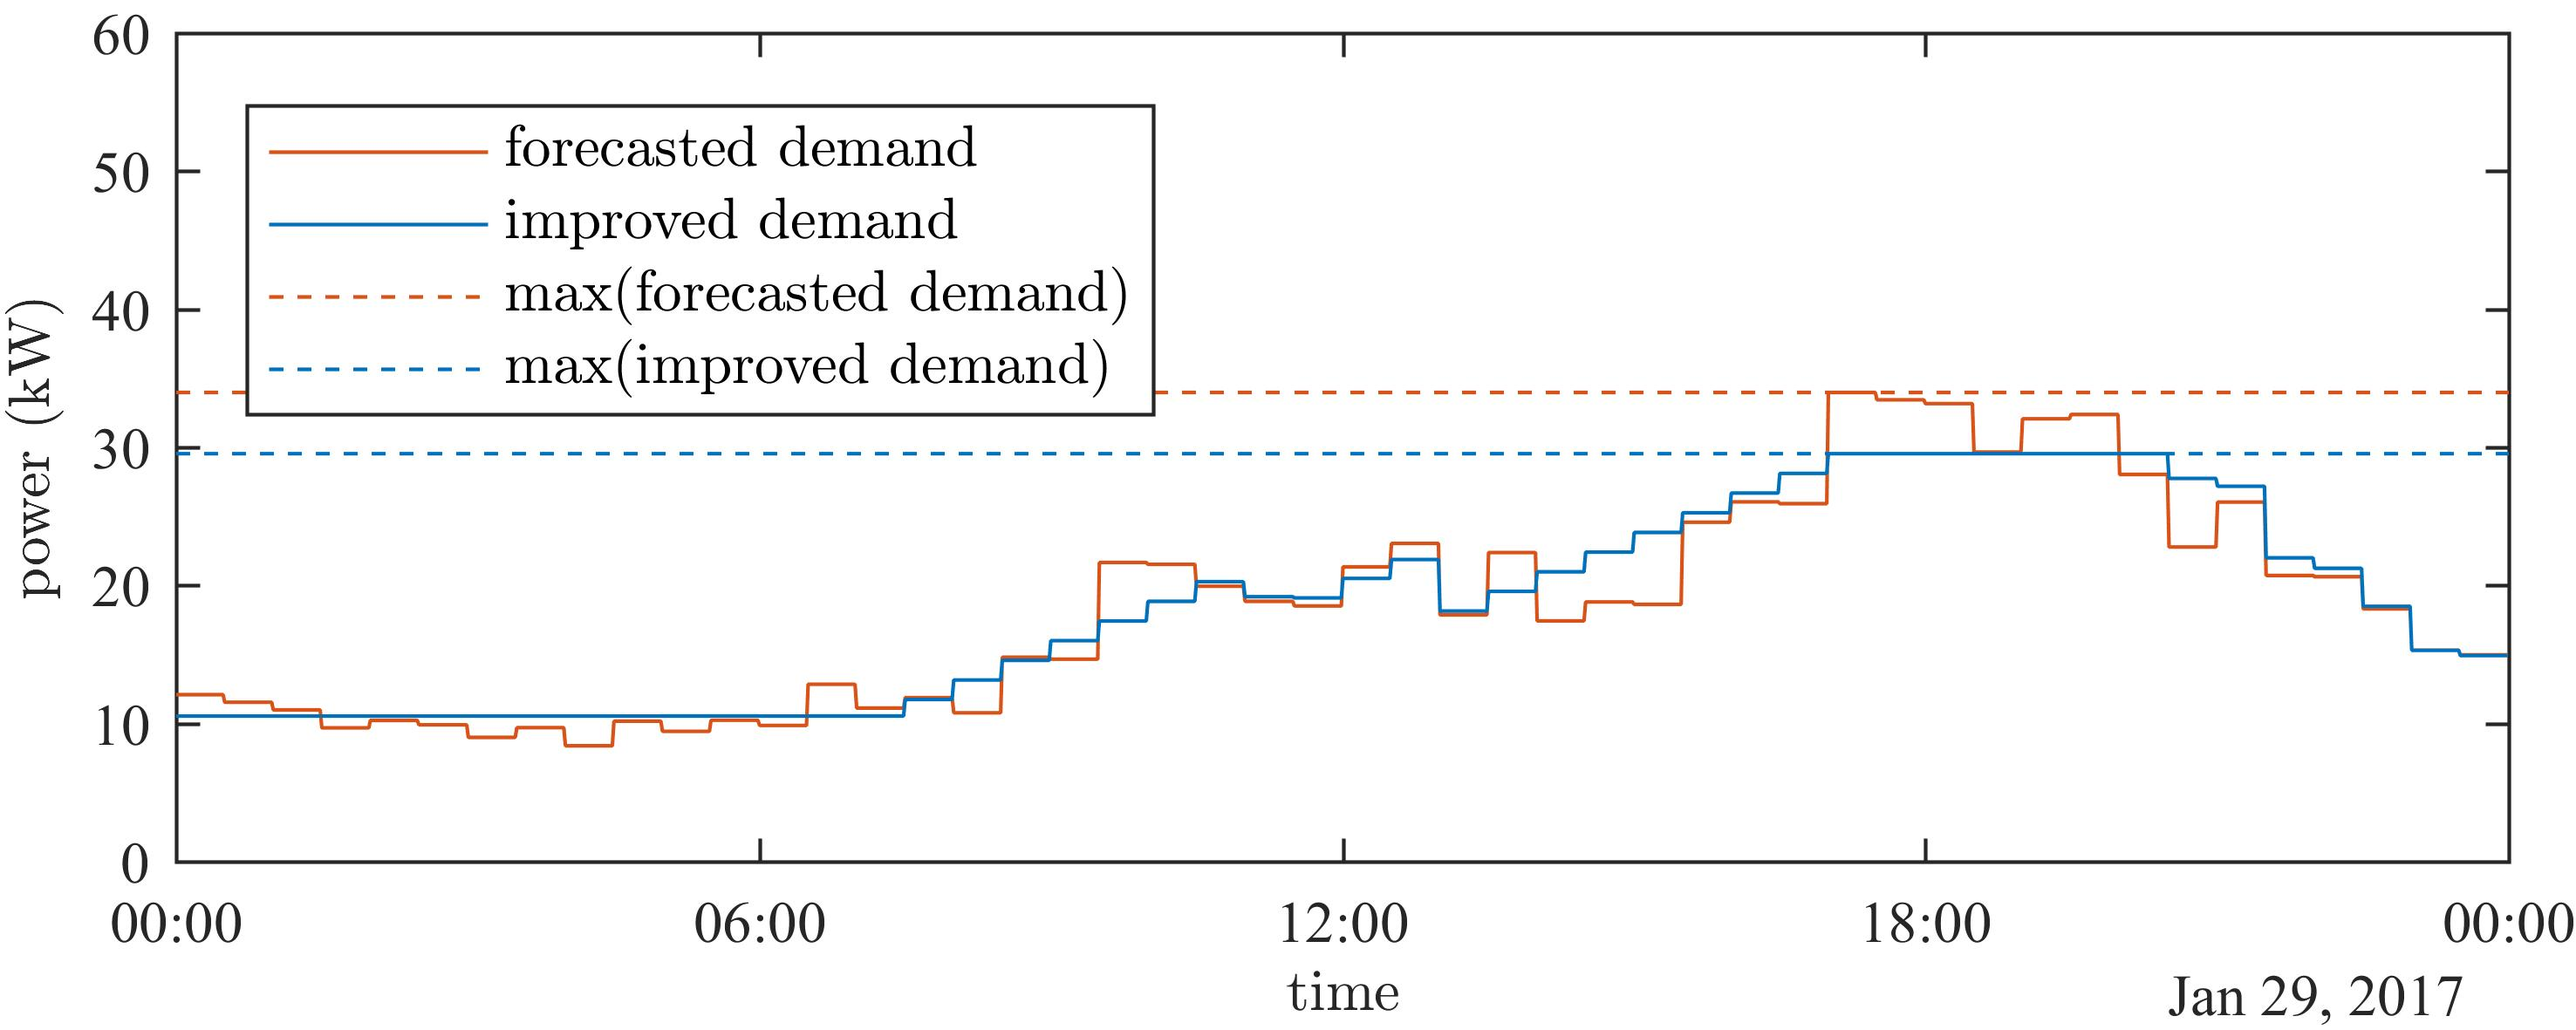
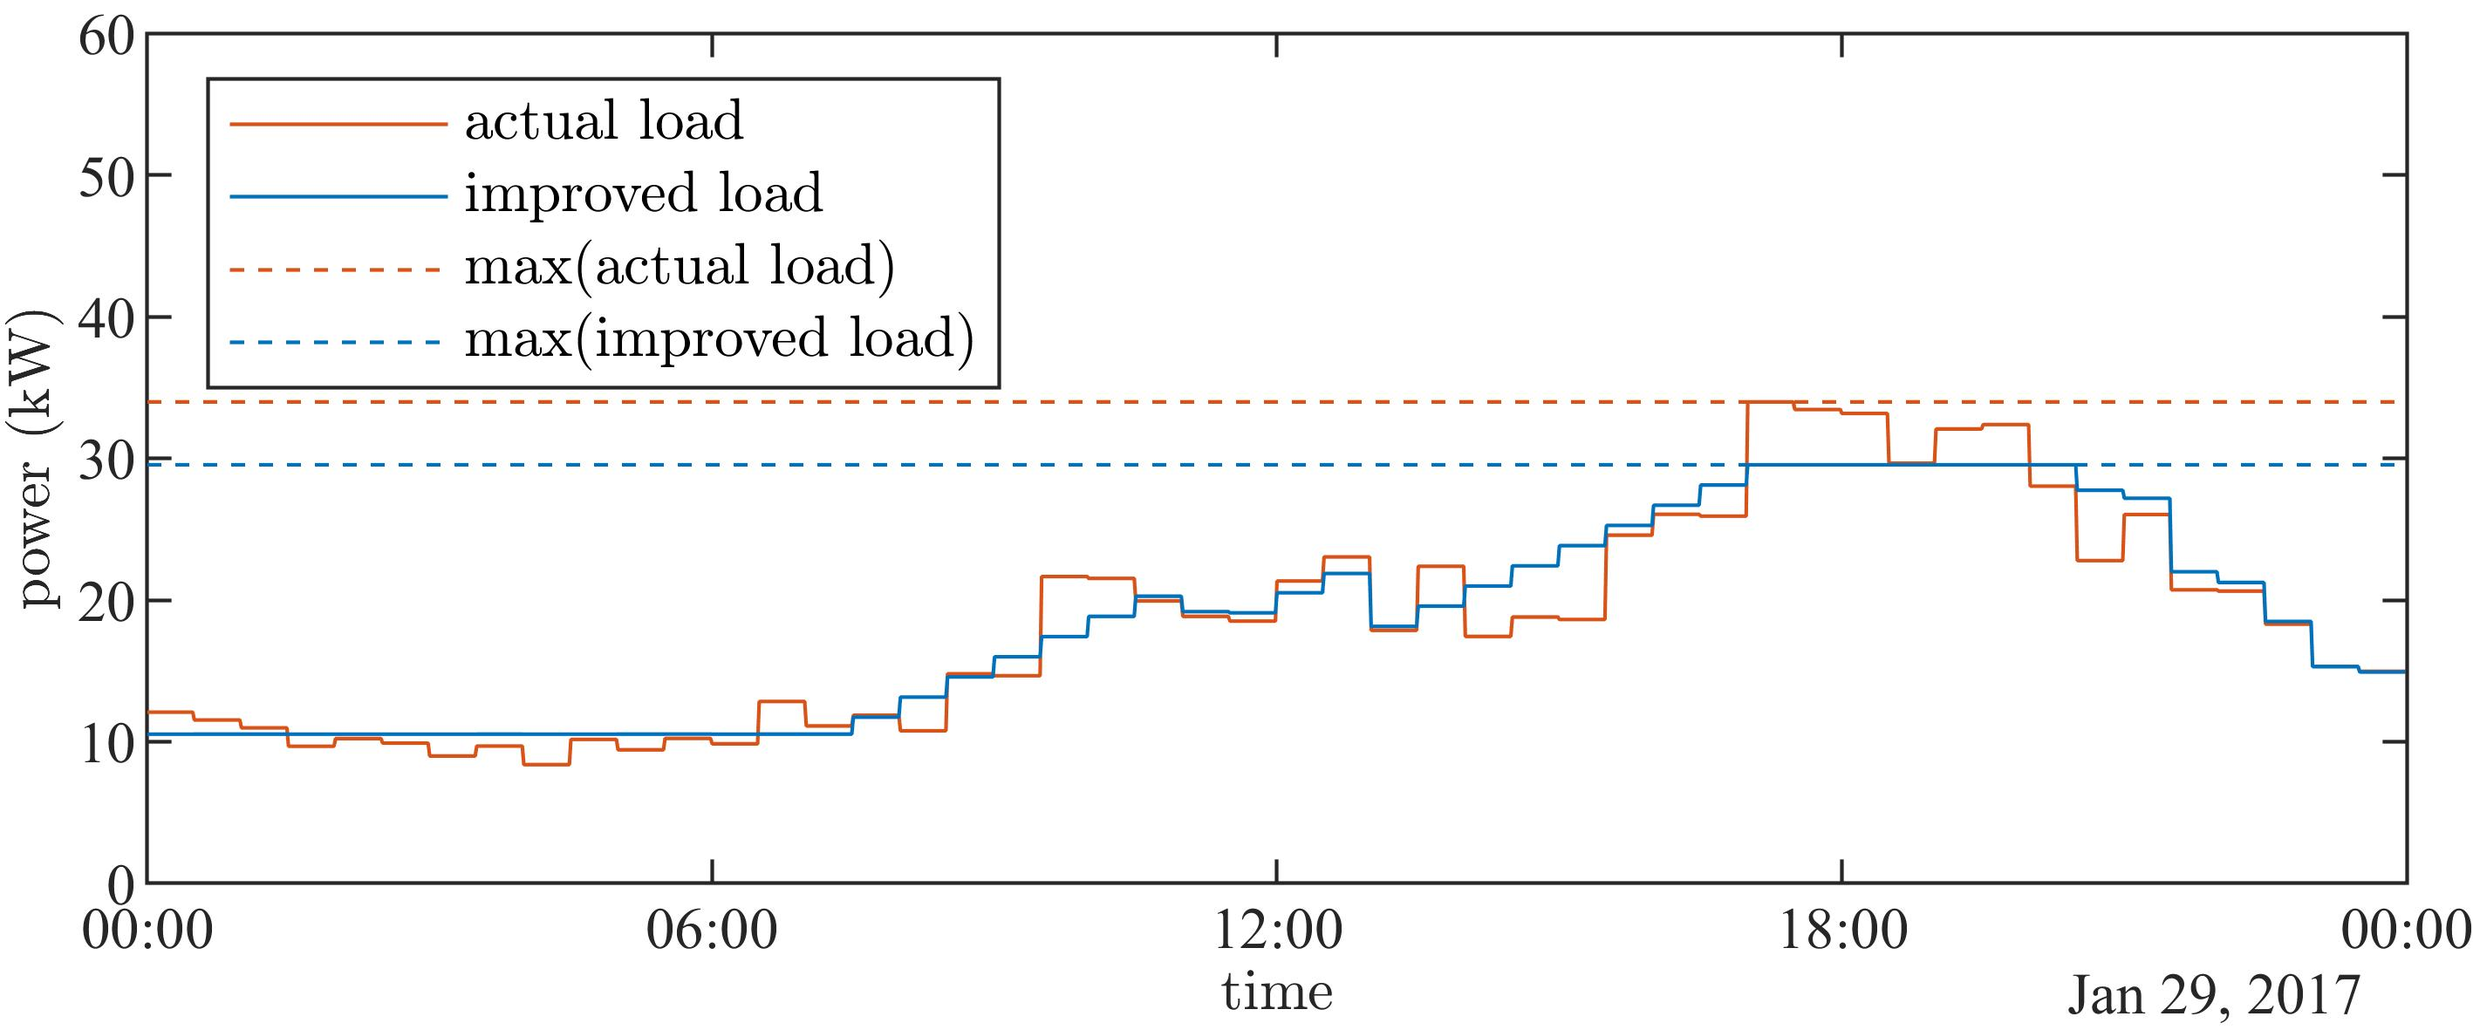
Finished Chapter 4
Loads of things were corrected! Including some re-plotting of figures (to change the legend)

diff --git a/_chapter2/sec/results.tex b/_chapter2/sec/results.tex
@@ -3,6 +3,7 @@
 
 All proposed cases are used to control power flow of the ESMU using 27 days of uninterrupted sub-half-hourly load records.
 In this section the time-series improvements are presented at first where a day's peak reduction due to the sub-half-hourly schedule adjustment are highlighted.
+\hladd{After all, reducing peaks both frees additional resources for future load and reduces ohmic losses in the cables.}
 Then the daily peak reduction across the entire dataset is presented and followed by a probability density plot to better compare these findings.
 In the end the model's impact on the peak reduction performance is assessed.
 
@@ -37,11 +38,11 @@ Hence, the next section compares the daily peak load reduction from the applicat
 
 In Figure~\ref{ch2:fig:daily-peaks}, every day's power peak was extracted in a similar way to the procedure that was used for Figure~\ref{ch2:fig:day-peak}.
 Here the actual power peaks were plotted in Figure~\ref{ch2:subfig:daily-peaks}, and the relative power improvements (i.e. ratio to the baseline power peaks from case \textbf{B}) were plotted in Figure~\ref{ch2:subfig:daily-peaks-percentage}.
-From both plots it can be seen that controlling ESMU using the proposed dynamic control lowers peak load.
-This is true even when the underlying ESMU schedule originally worsened and increased peak load.
-Such a behaviour can be observed clearly during \hlrem{e.g.}\hladd{for example} days 6 and 25, where the half-hourly ESMU schedule increased the actual load peak by 2.8kW and 2.5kW, respectively.
-The ESMU schedule adjustment mechanisms however compensated for this error, but in those two cases the compensation was not enough to reduce peak power below the original value.
-Day 26 on the other hand experienced a similar increase in peak power during the baseline case (i.e. case \textbf{B}) by 1.2kW, but the power adjustment mechanism corrected this forecast error and reduced the final peak power below the original value.
+From both plots it can be seen that controlling ESMU using the proposed dynamic control \hladd{(\textbf{I}, \textbf{II}, \textbf{III}) }lowers peak load.
+This is true even when the underlying ESMU schedule originally worsened and increased peak load\hladd{ (see \textbf{B} vs \textbf{O})}.
+Such a behaviour can be observed clearly during \hlrem{e.g.} days 6 and 25, where the half-hourly ESMU schedule\hladd{ based on \textbf{B}} increased the actual load peak\hladd{ from case \textbf{O}} by 2.8kW and 2.5kW, respectively.
+The ESMU schedule adjustment mechanisms \hladd{(\textbf{I}, \textbf{II}, \textbf{III}) }however compensated for this error, but in those two cases the compensation was not enough to reduce peak power below the original value.
+Day 26 on the other hand experienced a similar increase in peak power during the baseline case \hlrem{(i.e. case }\textbf{B}\hlrem{)} by 1.2kW, but the \hladd{proposed }power adjustment mechanism \hladd{according to \textbf{II}}corrected this forecast error and reduced the final peak power below the original value.
 
 Nonetheless, the sensitivity to the underlying power prediction approaches becomes apparent when having this larger set of peak reduction results to compare the dynamic control's performance against its baseline cases.
 As seen in Figure~\ref{ch2:subfig:daily-peaks-percentage} the scenario with perfect foresight (i.e. case \textbf{I}) frequently outperformed all other cases since it appears to achieve largest peak power reduction from the baseline case.
@@ -74,12 +75,17 @@ Figure~\ref{ch2:fig:peak-diff-pdf} takes this analysis even further where only t
 Now the ESMU impact can easily be seen since a high probability of positive peak load reduction indicates a beneficial impact of the ESMU operation.
 A negative peak load reduction (i.e. increased peak load) would therefore indicate a worse performance.
 As expected, case \textbf{B} has a slight positive impact on the system whilst a cumulative probability of more than 25\% (i.e. area under curve of case \textbf{O}) to the left of 0kW suggests that the peak might be worsened one in four times.
-The dynamic control with its simplest prediction method however (i.e. case \textbf{III}) lowered this probability to already 11.8\%.
-The perfect foresight model (i.e. case \textbf{I}) performed best at only 7.4\% and the MPC based cases (i.e. case \textbf{II}) achieved an average of 8.0\% probability of worsening the peak power.
+The dynamic control with its simplest prediction method however (i.e. case \textbf{III}) lowered this probability to already \hlrem{11.8\%}\hladd{7.4\%}.
+The perfect foresight model (i.e. case \textbf{I}) performed \hlrem{best at} only \hlrem{7.4\%}\hladd{at 11.8\%} and the MPC based cases (i.e. case \textbf{II}) achieved an average of 8.0\% probability of worsening the peak power.
+\hladd{The fact, that the perfect foresight model \textbf{III} could not reduce the probability of peaks as well as the simple model \textbf{I} is likely due to the used power profiles and forecast errors.
+However, the mean probabilities (that are discussed below) differ as expected.}
 
+\hladd{In the following, the mean peak reduction of the base case \textbf{B} (i.e. where the cumulative probability reaches 50\%) is treated as the benchmark for peak reduction.
+This probability is reached at 1.7kW or in other words:}\hlrem{
 Beside the reduced probability of missing or worsening peak load, the probability of having a larger positive impact is also increased when using the dynamic control.
-Whilst the probability of reducing load peaks by 1.7kW or more was at 50\% for case \textbf{B}, case \textbf{III} increased this probability to 77.7\%, case \textbf{II} to 84.5 5\% (AR) / 83.1\% (ARX), and case \textbf{I} to 79.8\%.
-The reason why this perfect foresight case achieved a slightly lower value than the AR/ARX cases was due to aforementioned discrepancy between actual and forecasted load profiles.
+Whilst} the probability of reducing load peaks by 1.7kW or more was at 50\% for case \textbf{B}\hladd{.
+The}\hlrem{,} \hladd{simplest }case \textbf{III} \hladd{however }increased this probability to 77.7\%, case \textbf{II} to 84.5 5\% (AR) / 83.1\% (ARX), and the \hladd{perfect foresight }case \textbf{I} to 79.8\%.
+The reason why this simplest case achieved a slightly lower value than the AR/ARX cases was due to aforementioned discrepancy between actual and forecasted load profiles.
 Due to the discrepancy in erroneousness the chosen SOC tolerance was exhausted and lead to some worsening cases that negatively skewed results of the perfect foresight case (i.e. case \textbf{I}).
 Nonetheless, when comparing the three dynamic control cases with each other as done in Figure~\ref{ch2:fig:peak-diff-pdf}, then it can be seen that case \textbf{II} using an AR model for MPC performed best at reducing peak loads for the used dataset.
 

diff --git a/_chapter2/sec/control.tex b/_chapter2/sec/control.tex
@@ -3,8 +3,8 @@
 
 \input{_chapter2/fig/system-controller}
 
-This section explains the dynamic control (i.e. the controller block as shown in Figure~\ref{ch2:subfig:proposed-dynamic-control-system}) which contains the two PID compensators to adjust operation around the predetermined ESMU schedule.
-The first PID compensator is fed by the ESMU schedule and the other is fed by the MPC load estimations.
+This section explains the dynamic control (i.e. the controller block as shown in Figure~\ref{ch2:subfig:proposed-dynamic-control-system}) \hladd{in the shape of an MPC, }\hlrem{which contains}\hladd{containing} the two PID compensators to adjust operation around the predetermined ESMU schedule.
+The first PID compensator is fed by the ESMU schedule and the other is fed by the \hlrem{MPC}\hladd{predictor} load estimations.
 After the control system is detailed in this section the auto-regressive models which were used during the course of this research are also explained.
 
 \subsection{Dynamic control}
@@ -23,7 +23,7 @@ More specifically, PID$_1$ receives the most recent SOC value that is obtained f
 \nomenclature[J]{$E_{p}(t)$}{Difference between current and predicting network power at sample $t$, where $E_{p}(t) \in \mathbb{R}$}
 \nomenclature[J]{$\hat{p}_\text{net}(t+\Delta t)$}{Predicted next network power at sample $t$}
 \nomenclature[J]{$\boldsymbol{\alpha}$}{PID weight vector for SOC compensator PID$_1$, where $\boldsymbol{\alpha} = \{\alpha_P, \alpha_I, \alpha_D\}$ and $\boldsymbol{\alpha} \in \mathbb{R}^3$}
-\nomenclature[J]{$\boldsymbol{\beta}$}{PID weight vector for MPC compensator PID$_2$, where $\boldsymbol{\beta} = \{\beta_P, \beta_I, \beta_D\}$ and $\boldsymbol{\beta} \in \mathbb{R}^3$}
+\nomenclature[J]{$\boldsymbol{\beta}$}{PID weight vector for \hlrem{MPC}\hladd{predictor} compensator PID$_2$, where $\boldsymbol{\beta} = \{\beta_P, \beta_I, \beta_D\}$ and $\boldsymbol{\beta} \in \mathbb{R}^3$}
 \nomenclature[J]{$\textbf{a}$}{Weight vector for compensator input regression of the AR model, where $\textbf{a} = \mathbb{R}^{N}$}
 \nomenclature[J]{$\textbf{b}$}{Weight vector for compensator output regression of the AR model, where $\textbf{b} = \mathbb{R}^{N}$}
 \nomenclature[J]{$N$}{Number of regressors of the AR model, where $N \in \mathbb{Z}_{>0}$}
@@ -57,7 +57,7 @@ This error signal is defined as:
 \input{_chapter2/equ/power-error-signal}
 
 However, since the future network power is unknown an ``estimated next power'', $\hat{p}_\text{net}(t+\Delta t)$, is used instead.
-This value is the PID$_2$'s input from the MPC and results in an ``estimated power error signal'':
+This value is the PID$_2$'s input from the \hlrem{MPC}\hladd{predictor} and results in an ``estimated power error signal'':
 
 \input{_chapter2/equ/power-error-estimate}
 
@@ -84,7 +84,10 @@ Here, $\zeta^*(\boldsymbol{\alpha}, \boldsymbol{\beta})$ is defined as:
 In Equation~\ref{ch2:equ:cost-weights} and Equation~\ref{ch2:equ:dynamic-cost}, $\zeta^*(\boldsymbol{\alpha}, \boldsymbol{\beta})$ represents the sub-half-hourly peak load during a day when ESMU schedules are adjusted with the corresponding $\boldsymbol{\alpha}$ and $\boldsymbol{\beta}$ weights.
 Also, the same SOC tolerance that was used to generate the SOC schedule (i.e. $SOC_{tol}$) is included to prevent the solution from deviating off the prescheduled SOC profile.
 To generalise this solution for all load cases this minimisation problem was formulated to solve multiple daily load profiles in order to find ideal values for $\boldsymbol{\alpha}$ and $\boldsymbol{\beta}$.
-This resulting set of $\boldsymbol{\alpha}$ and $\boldsymbol{\beta}$ weights therefore guaranteed a convergent and stable solutions for the provided data.
+\hladd{The system of two PID compensators for discrete time is unconventional and it may be worth considering different types of control or compensator.
+However, with the above-explained approach and for the data used as part of this research, the computed}\hlrem{
+This resulting} set of $\boldsymbol{\alpha}$ and $\boldsymbol{\beta}$ weights \hlrem{therefore guaranteed}\hladd{resulted} a convergent and stable solutions\hlrem{ for the provided data}.
+\hladd{In this context, convergent means that the $SOC^*(t)$ values tend towards the $SOC(t)$ values, and stable means that the $SOC^*(t)$ values never clipped at zero or one.}
 The details concerning these case studies themselves are however outlined in Section~\ref{ch2:sec:case-studies}.
 
 \subsection{Model predictive control}

diff --git a/_chapter2/fig/cost-sample.tex b/_chapter2/fig/cost-sample.tex
@@ -7,6 +7,6 @@
 		\includegraphics{_chapter2/fig/day-actual}
 		\label{ch2:subfig:actual-forecasted}
 	}
-	\caption{An example of applying a half-hourly ESMU schedule to its half-hourly schedule (Subfig. \ref{ch2:subfig:day-forecasted}) and the actual, sub-half-hourly daily load (Subfig. \ref{ch2:subfig:actual-forecasted}).}
+	\caption{An example of applying a half-hourly ESMU schedule to \hl{the half-hourly substation load} (Subfig. \ref{ch2:subfig:day-forecasted}) and the actual, sub-half-hourly daily load\hl{, measured at the substation} (Subfig. \ref{ch2:subfig:actual-forecasted}).}
 	\label{ch2:fig:cost-sample}
 \end{figure}

diff --git a/_chapter2/fig/system-controller.tex b/_chapter2/fig/system-controller.tex
@@ -16,7 +16,7 @@
     node [box, fill=green!20, below left of=battery, yshift=-20mm, xshift=-10mm](pid_soc) {PID$_1$}
     node [box, fill=green!20, below right of=battery, yshift=-20mm, xshift=10mm](pid_p) {PID$_2$}
     node [box, fill=blue!20, below of=pid_soc, yshift=-15mm](schedule) {Schedule}
-    node [box, fill=green!20, below of=pid_p, yshift=-15mm](mpc) {MPC};
+    node [box, fill=green!20, below of=pid_p, yshift=-15mm](mpc) {\hladd{predictor}\hlrem{MPC}};
 	% Draw lines
 	\draw [->] (battery) to (network);
 	\draw [->, bend right] (pid_soc) to node[left, pos=0.4, xshift=-1mm] {$p_{1}(t+\Delta t)$} (battery);
